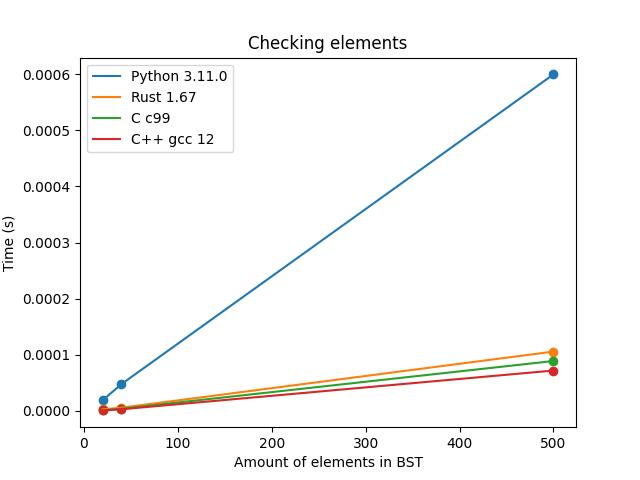
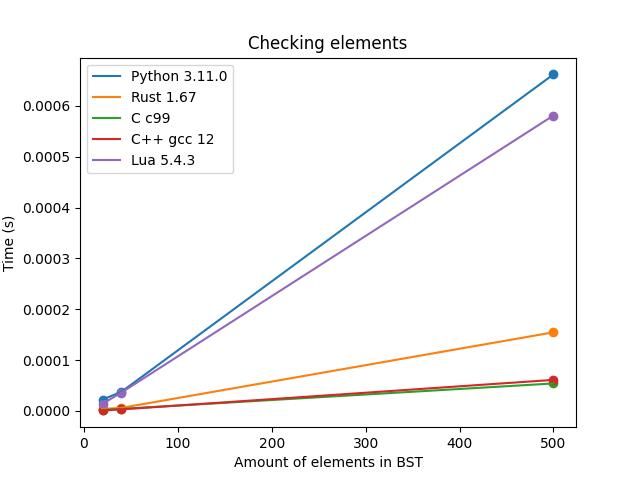
Lua

diff --git a/bst_runner.py b/bst_runner.py
@@ -8,14 +8,16 @@ class BSTCollection:
     PYTHON = BST("Python 3.11.0", Path("BST/python3/run.sh"))
     RUST = BST("Rust 1.67", Path("BST/rust/run.sh"))
     C = BST("C c99", Path("BST/c/run.sh"))
-    CPP = BST("C++ gcc 12", Path("BST/c++/run.sh"))
+    CPP = BST("C++ gcc12", Path("BST/c++/run.sh"))
+    LUA = BST("Lua 5.4.3", Path("BST/lua/run.sh"))
+
 
 
 
 
     @classmethod
     def get_all(cls):
-        return [cls.PYTHON, cls.RUST, cls.C, cls.CPP]
+        return [cls.PYTHON, cls.RUST, cls.C, cls.CPP, cls.LUA]
 
 
 def run(bst: BST, amount:int) -> Result:
